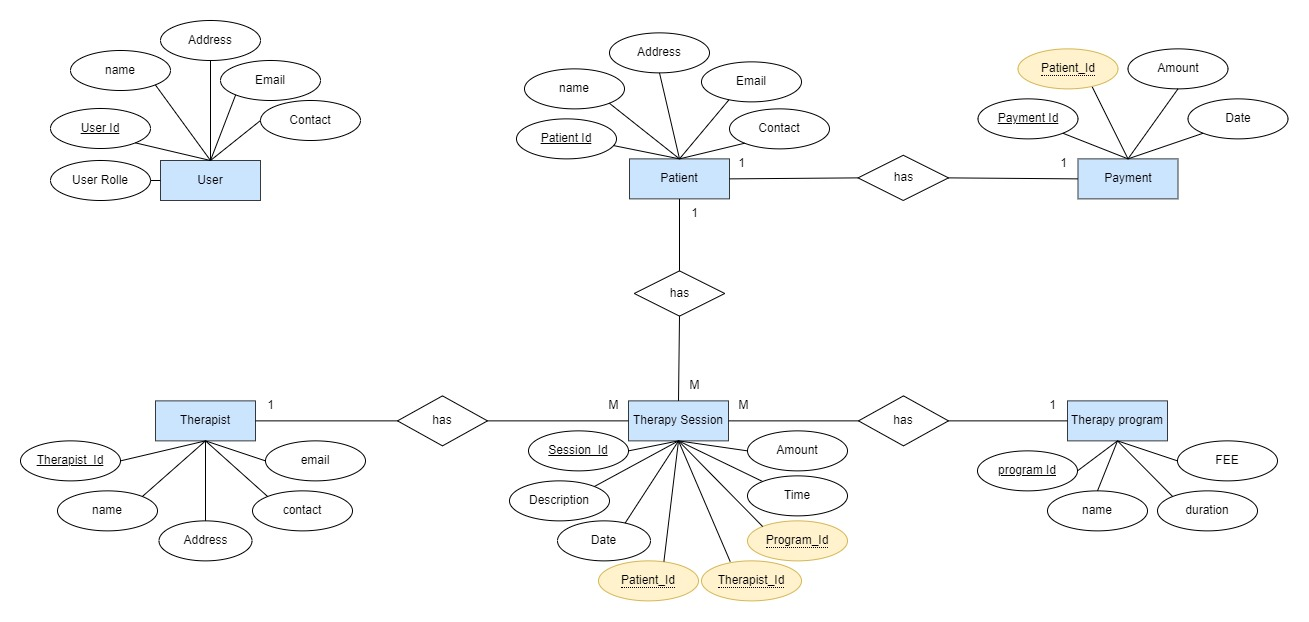
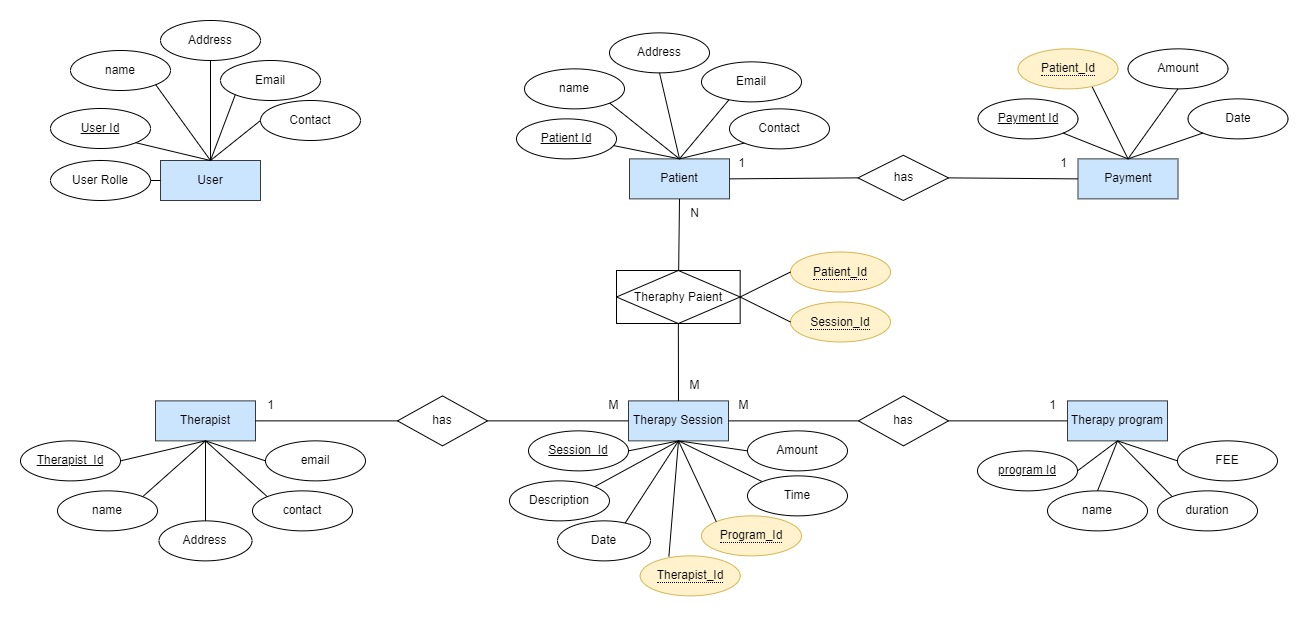
change the database and there added the new able

diff --git a/src/main/java/com/example/thementaltheraphyhelthfinal/entities/TheraphySession.java b/src/main/java/com/example/thementaltheraphyhelthfinal/entities/TheraphySession.java
@@ -1,12 +1,10 @@
 package com.example.thementaltheraphyhelthfinal.entities;
 
-import jakarta.persistence.Entity;
-import jakarta.persistence.Id;
-import jakarta.persistence.JoinColumn;
-import jakarta.persistence.ManyToOne;
+import jakarta.persistence.*;
 import lombok.*;
 
 import java.time.LocalDate;
+import java.util.List;
 
 @Entity
 @AllArgsConstructor
@@ -21,9 +19,8 @@ public class TheraphySession {
     private double amount;
     private String time;
 
-    @ManyToOne
-    @JoinColumn(name = "patient_Id")
-    private Patient patient;
+    @ManyToMany
+    private List<Patient> patient;
 
     @ManyToOne
     @JoinColumn(name = "therapist_Id")
